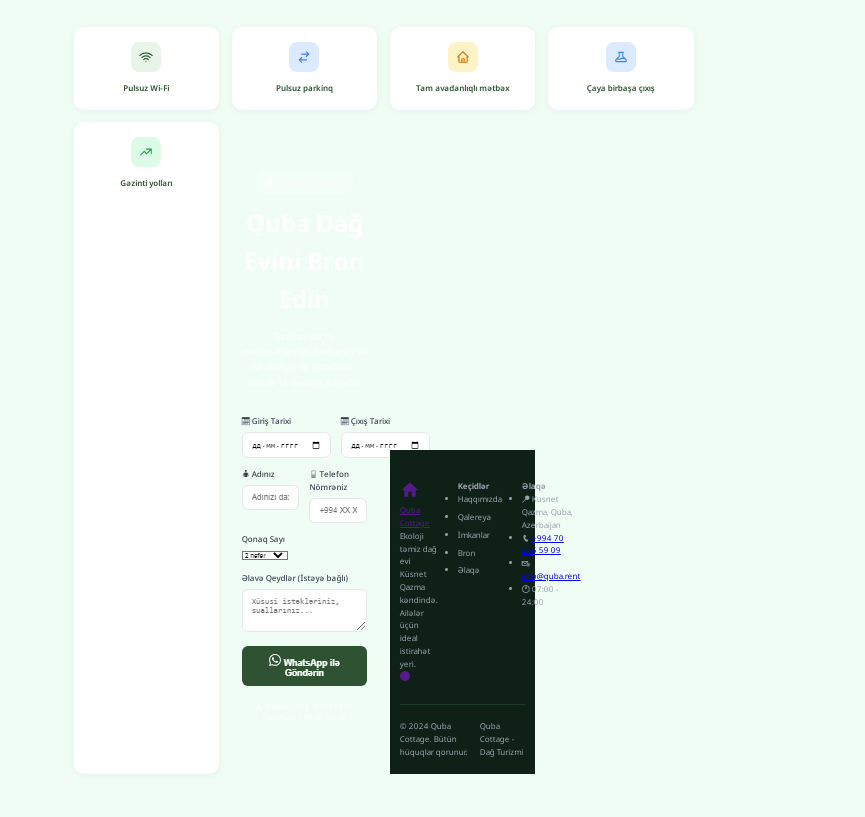
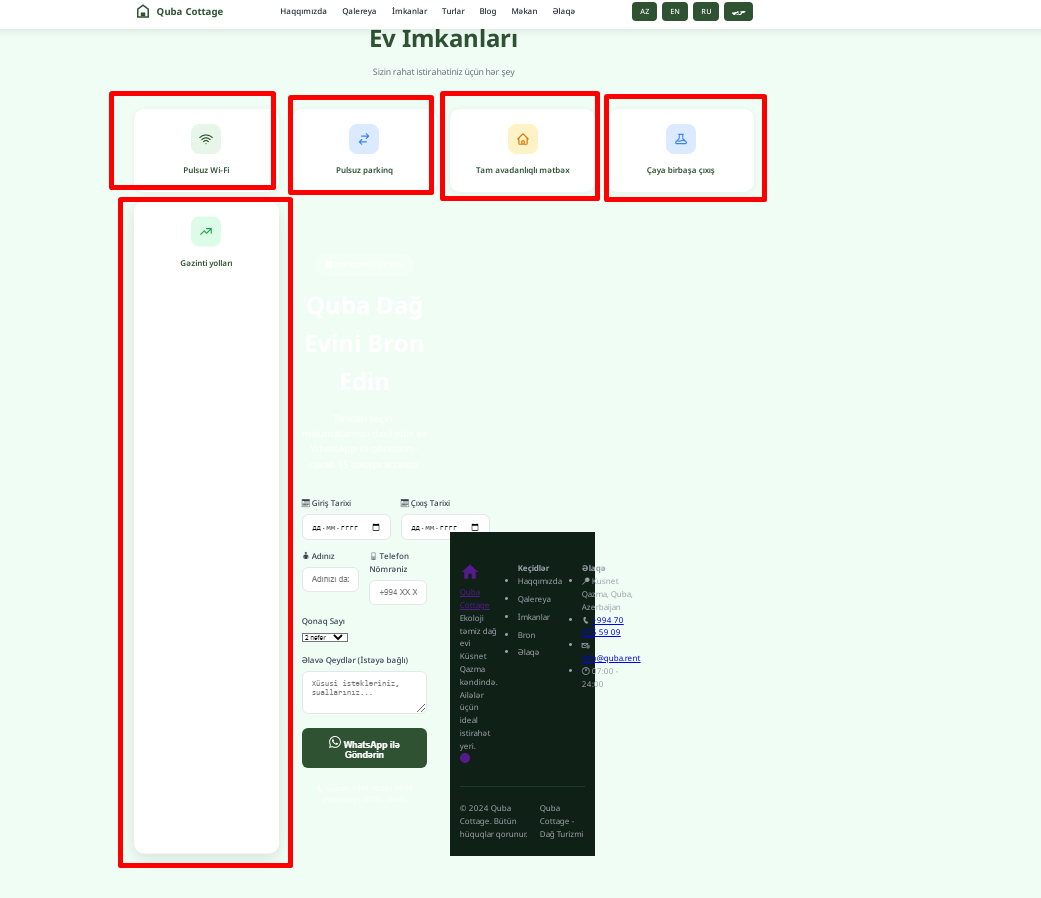
Message 351421784502599 - 1767349243

diff --git a/current_styles.css b/current_styles.css
@@ -5,6 +5,20 @@
     box-sizing: border-box;
 }
 
+html, body {
+    min-height: 100vh;
+}
+
+body {
+    display: flex;
+    flex-direction: column;
+    margin: 0;
+}
+
+main {
+    flex: 1 0 auto;
+}
+
 :root {
     /* Colors */
     --bg-primary: #09090B;
@@ -1264,6 +1278,176 @@ body {
     color: var(--text-muted);
     font-size: 14px;
     margin-bottom: 0;
+}
+
+/* Standard Site Footer - Sticky Footer */
+.site-footer {
+    background: linear-gradient(180deg, #1e3a29 0%, #2d5a3d 50%, #1e3a29 100%);
+    padding: 60px 0 30px;
+    color: white;
+    position: relative;
+    flex-shrink: 0;
+    width: 100%;
+}
+
+.site-footer::before {
+    content: '';
+    position: absolute;
+    top: 0;
+    left: 0;
+    right: 0;
+    height: 4px;
+    background: linear-gradient(90deg, #4ade80, #22c55e, #16a34a, #4ade80);
+}
+
+.footer-grid {
+    display: grid;
+    grid-template-columns: 1fr;
+    gap: 40px;
+    margin-bottom: 40px;
+}
+
+@media (min-width: 768px) {
+    .footer-grid {
+        grid-template-columns: 1.5fr 1fr 1fr;
+    }
+}
+
+.footer-brand {
+    max-width: 300px;
+}
+
+.footer-brand-link {
+    display: flex;
+    align-items: center;
+    gap: 12px;
+    text-decoration: none;
+    margin-bottom: 16px;
+}
+
+.footer-logo {
+    color: #4ade80;
+    filter: drop-shadow(0 2px 4px rgba(0,0,0,0.3));
+}
+
+.footer-brand-name {
+    font-size: 24px;
+    font-weight: 700;
+    color: white;
+    font-family: var(--font-heading);
+}
+
+.footer-brand-desc {
+    color: rgba(255, 255, 255, 0.8);
+    font-size: 14px;
+    line-height: 1.6;
+    margin-bottom: 16px;
+}
+
+.footer-social-link {
+    display: inline-flex;
+    align-items: center;
+    justify-content: center;
+    width: 40px;
+    height: 40px;
+    background: rgba(255, 255, 255, 0.1);
+    border-radius: 50%;
+    color: white;
+    transition: all 0.3s ease;
+}
+
+.footer-social-link:hover {
+    background: #229ED9;
+    transform: translateY(-3px);
+}
+
+.footer-heading {
+    font-size: 18px;
+    font-weight: 600;
+    color: white;
+    margin-bottom: 20px;
+    font-family: var(--font-heading);
+    position: relative;
+    padding-bottom: 10px;
+}
+
+.footer-heading::after {
+    content: '';
+    position: absolute;
+    bottom: 0;
+    left: 0;
+    width: 40px;
+    height: 2px;
+    background: #4ade80;
+}
+
+.footer-list {
+    list-style: none;
+    padding: 0;
+    margin: 0;
+}
+
+.footer-list li {
+    margin-bottom: 12px;
+    color: rgba(255, 255, 255, 0.8);
+    font-size: 14px;
+    display: flex;
+    align-items: center;
+    gap: 8px;
+}
+
+.footer-list a {
+    color: rgba(255, 255, 255, 0.8);
+    text-decoration: none;
+    transition: all 0.3s ease;
+    position: relative;
+}
+
+.footer-list a::before {
+    content: '›';
+    margin-right: 8px;
+    color: #4ade80;
+    opacity: 0;
+    transform: translateX(-10px);
+    transition: all 0.3s ease;
+}
+
+.footer-list a:hover {
+    color: #4ade80;
+    padding-left: 15px;
+}
+
+.footer-list a:hover::before {
+    opacity: 1;
+    transform: translateX(0);
+}
+
+.site-footer .footer-bottom {
+    border-top: 1px solid rgba(255, 255, 255, 0.2);
+    padding-top: 25px;
+    display: flex;
+    flex-direction: column;
+    align-items: center;
+    gap: 10px;
+    text-align: center;
+}
+
+@media (min-width: 768px) {
+    .site-footer .footer-bottom {
+        flex-direction: row;
+        justify-content: space-between;
+    }
+}
+
+.site-footer .footer-bottom p {
+    color: rgba(255, 255, 255, 0.6);
+    font-size: 14px;
+    margin: 0;
+}
+
+.footer-credit {
+    color: rgba(255, 255, 255, 0.4);
+    font-size: 12px;
 }
 
 /* Mobile Sticky CTA */
